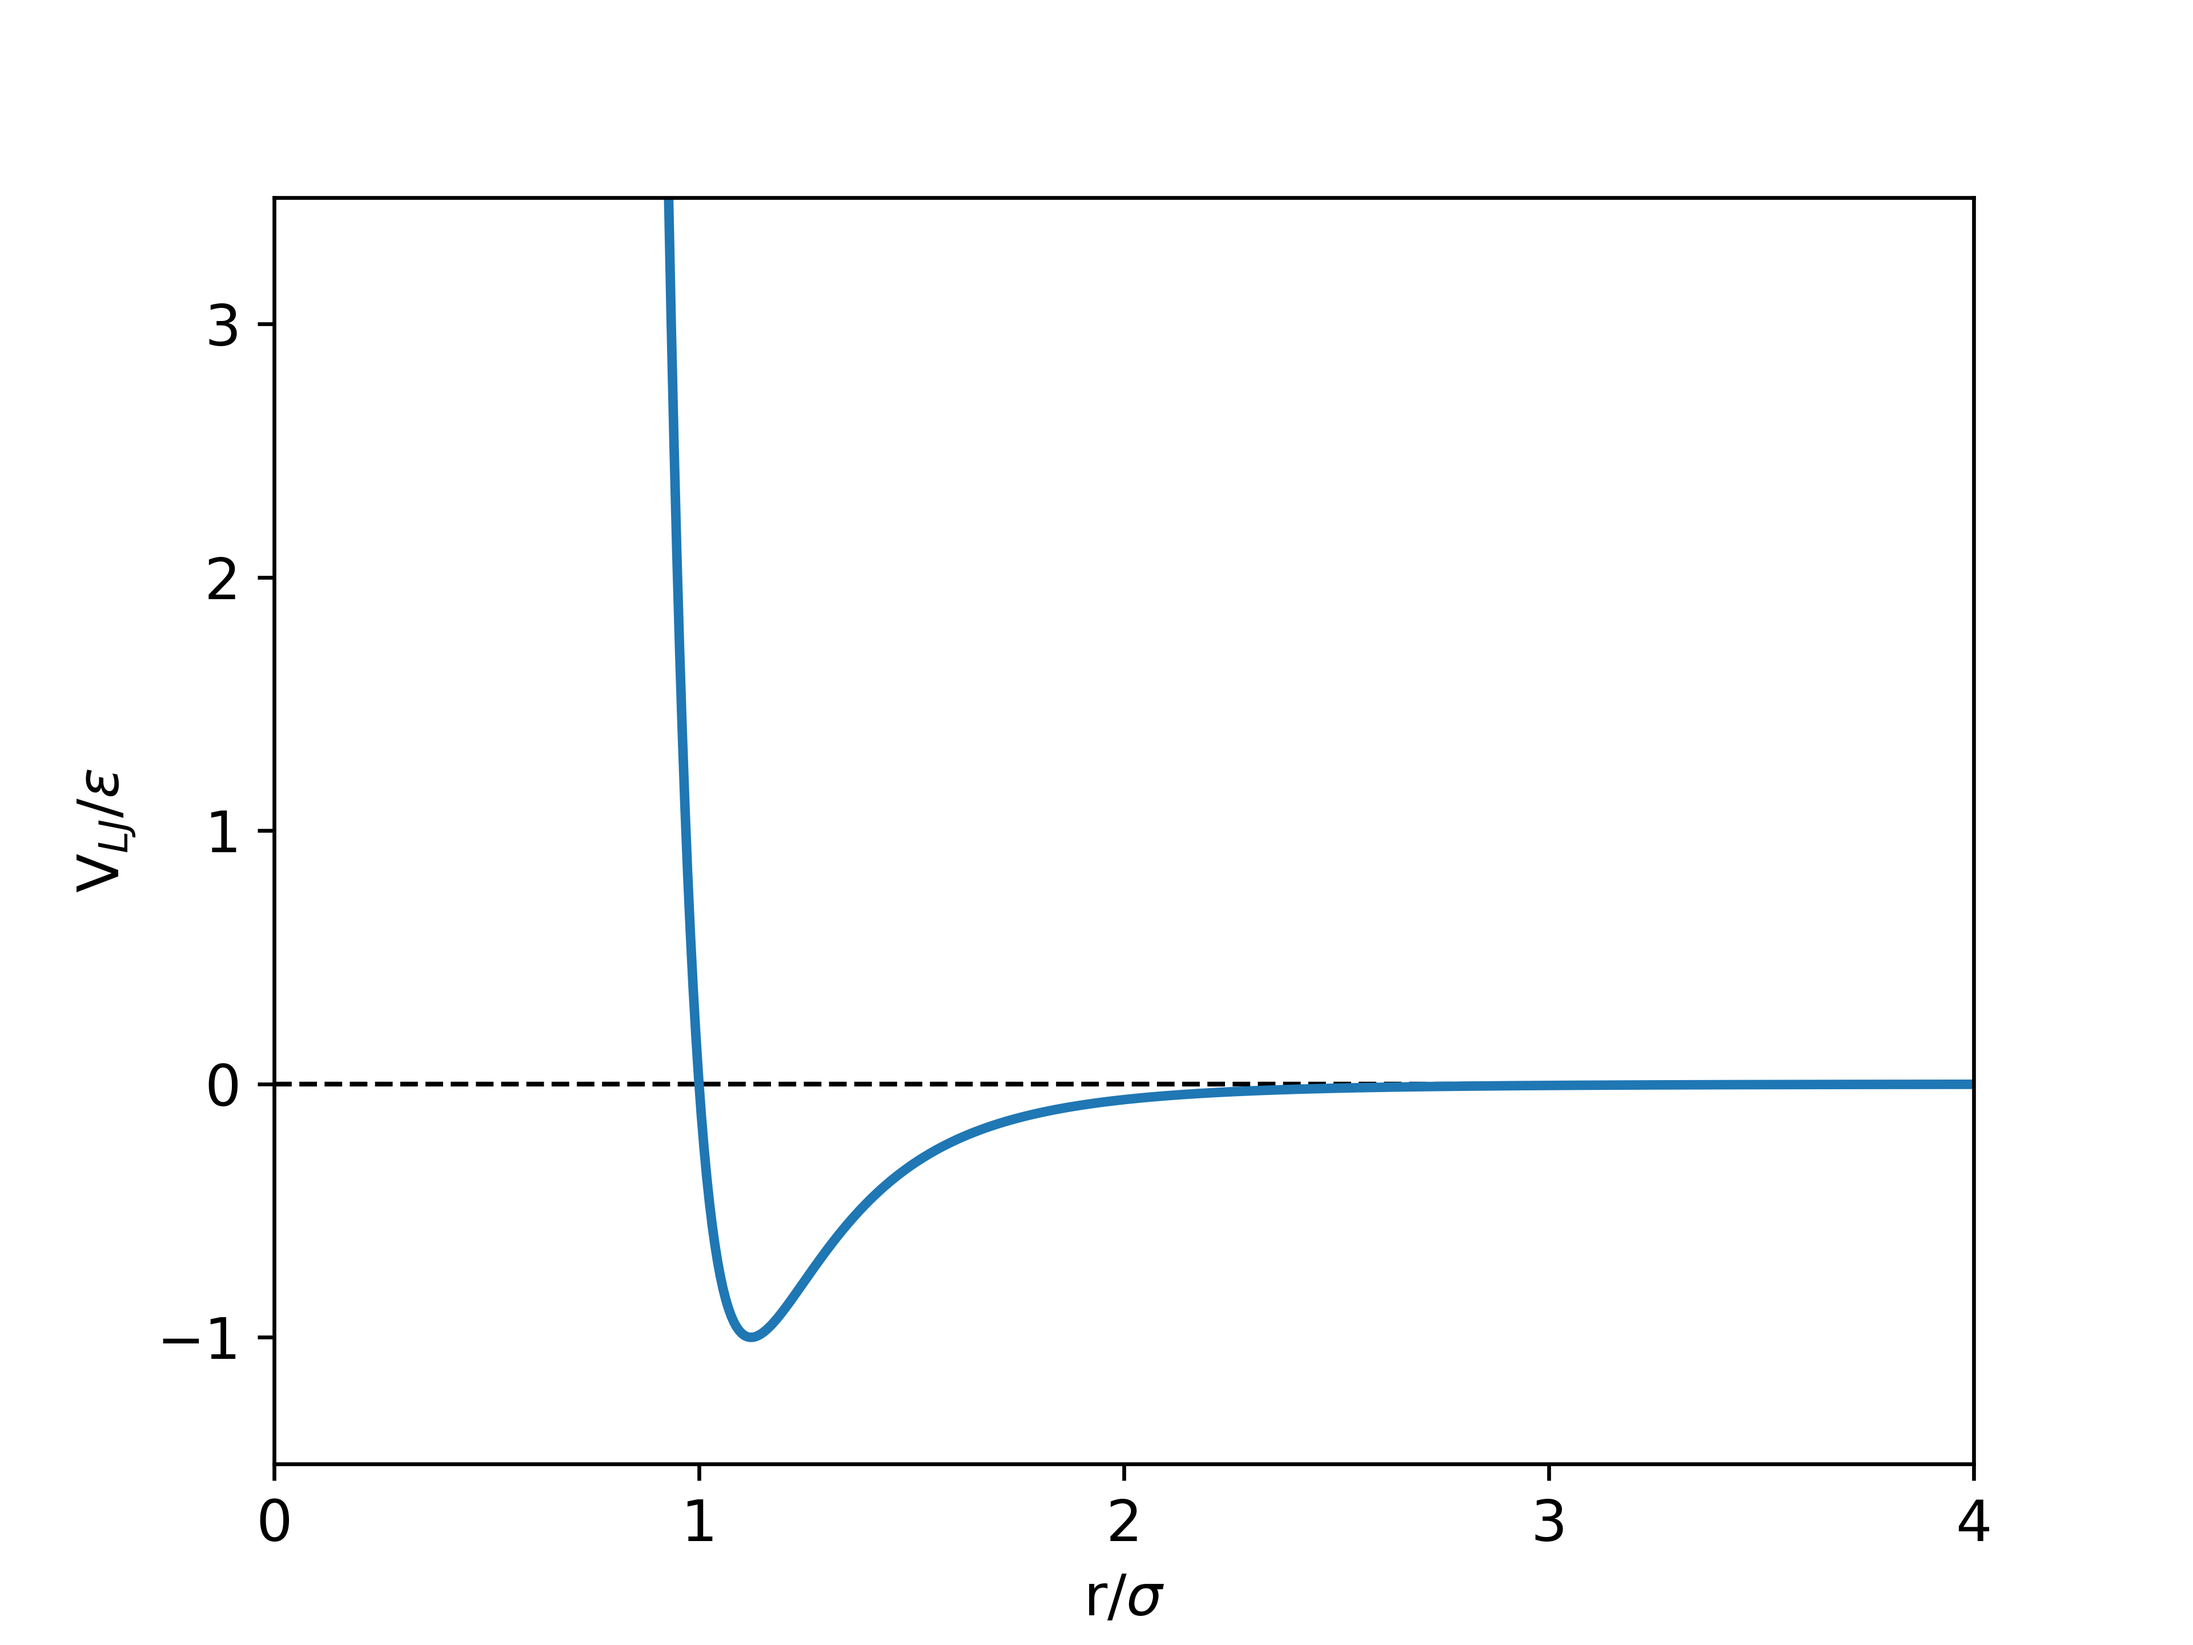
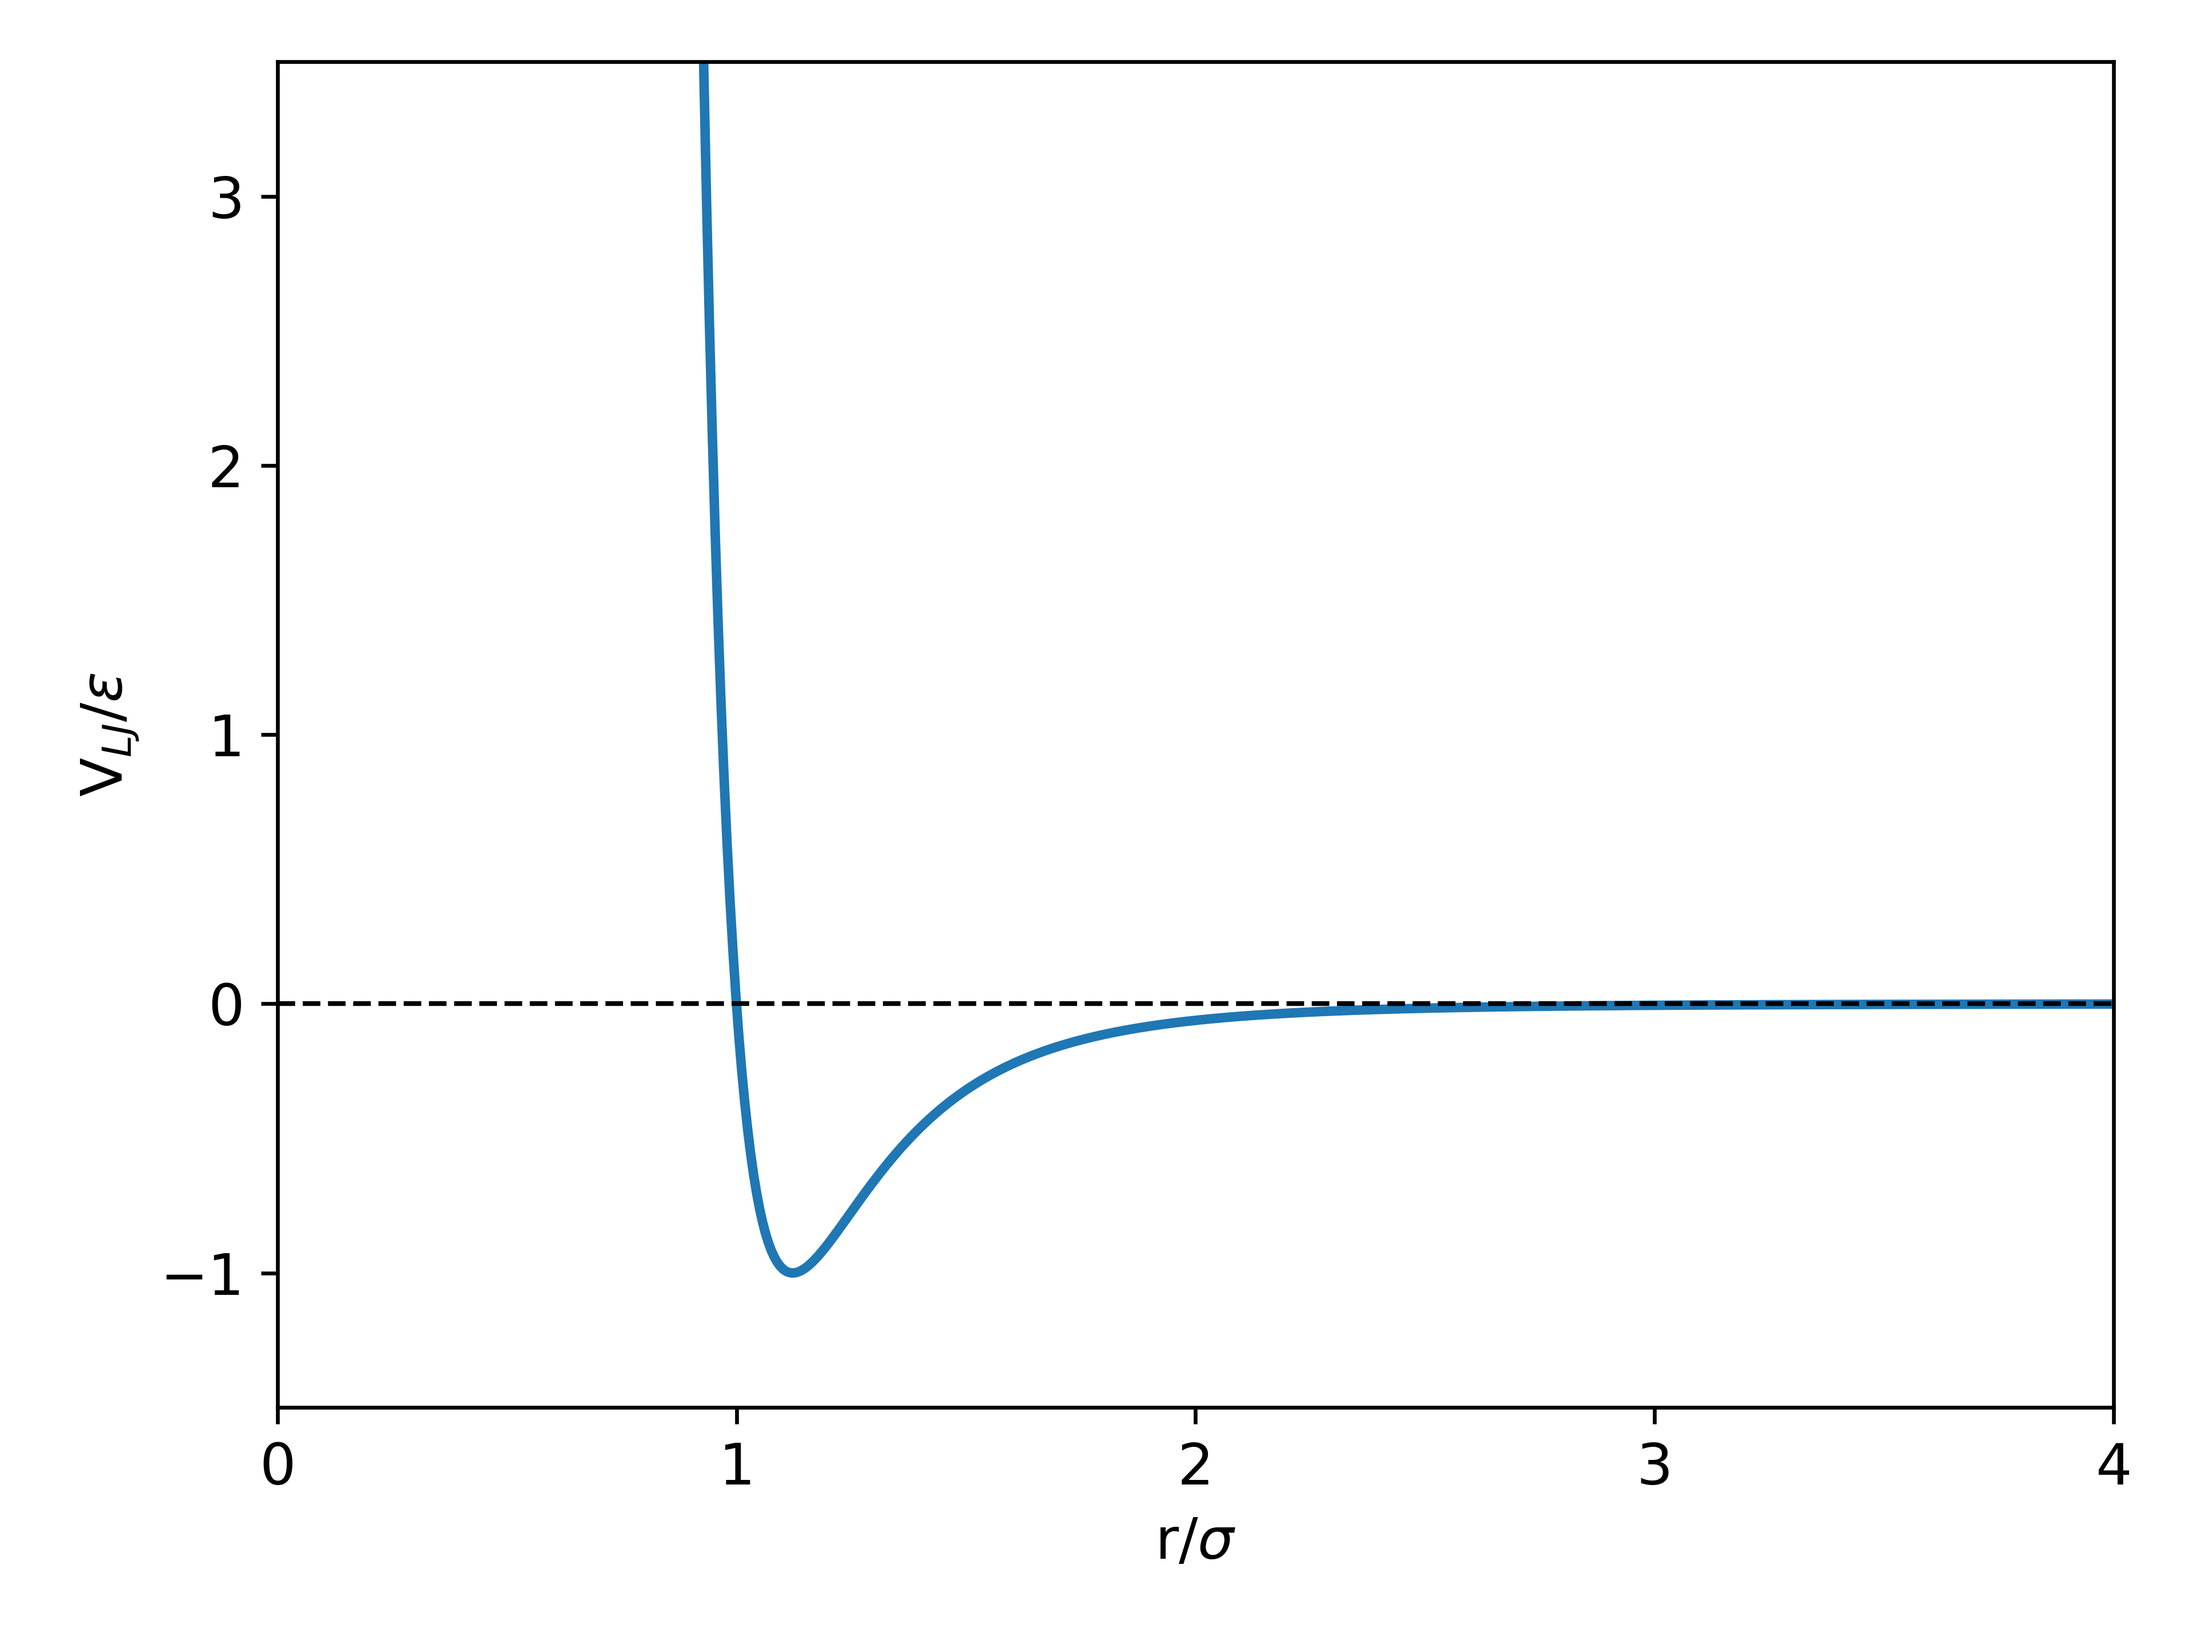
metodos py

diff --git a/src/Metodos/atomicos/lj.py b/src/Metodos/atomicos/lj.py
@@ -7,21 +7,20 @@
 import matplotlib.pyplot as plt
 import numpy as np
 
-x = np.linspace(0.8, 4, 500)
-
-xinv6 = 1 / x ** 6
-xinv12 = 1 / x ** 12
-lj = 4 * (xinv12 - xinv6)
-
 plt.rcParams.update({"font.size": 12})
 
-plt.xticks([0, 1, 2, 3, 4])
+dist = np.linspace(0.8, 4, 500)
+epot = 4 * (1 / np.power(dist, 12) - 1 / np.power(dist, 6))
+
+plt.plot(dist, epot, linewidth=2)
+plt.axhline(y=0, color="k", linestyle="--", linewidth=1)
+
+plt.xticks(range(5))
 plt.xlim((0, 4))
-plt.ylim((-1.5, 3.5))
 plt.xlabel(r"r/$\sigma$")
+
+plt.ylim((-1.5, 3.5))
 plt.ylabel(r"V$_{LJ}$/$\varepsilon$")
 
-plt.axhline(y=0, color="k", linestyle="--", linewidth=1)
-plt.plot(x, lj, linewidth=2)
-
+plt.tight_layout()
 plt.savefig("lj.png", dpi=600)
